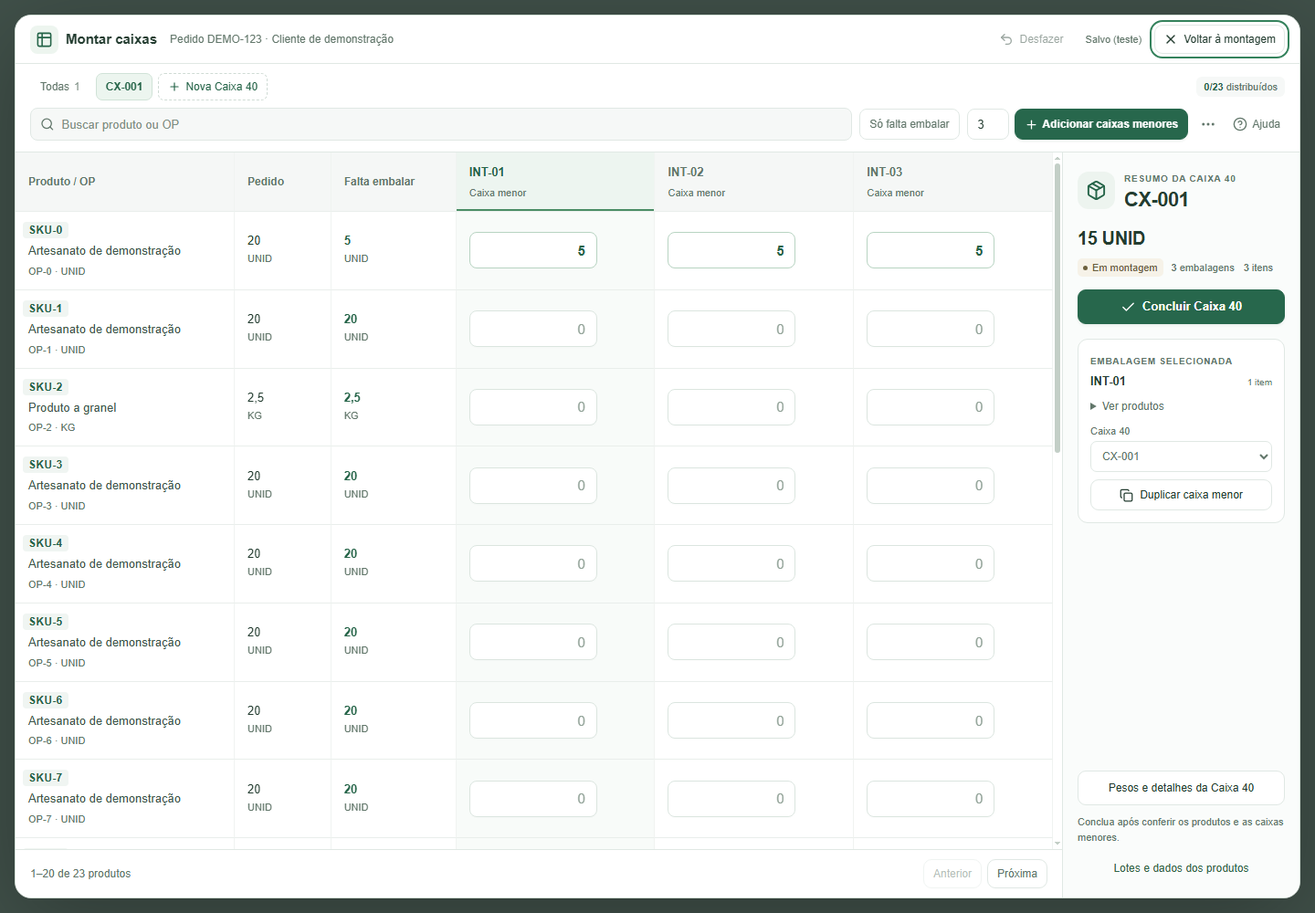
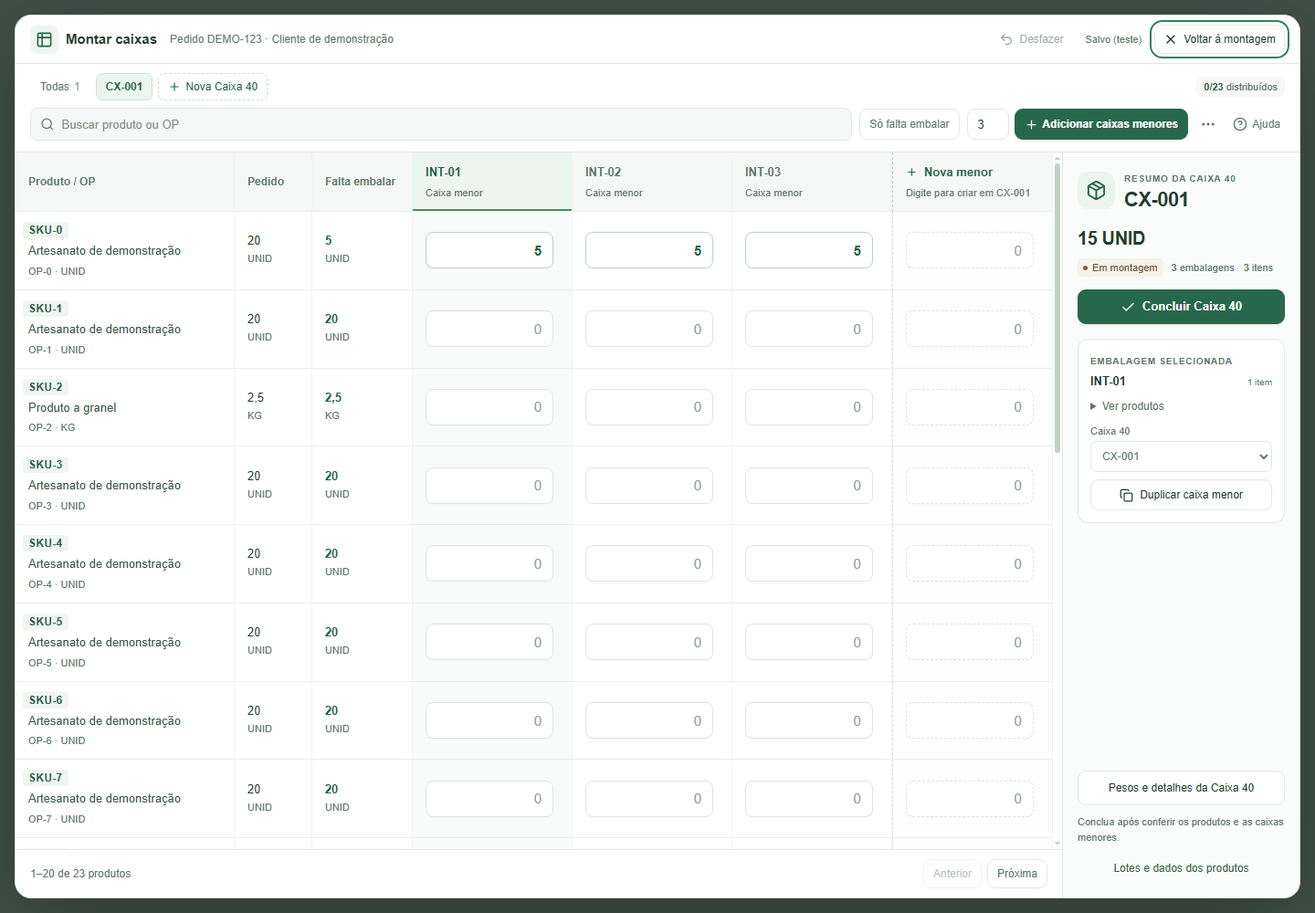
Create smaller boxes inside Caixa 40 directly from spreadsheet input

diff --git a/app/packing-sheet.tsx b/app/packing-sheet.tsx
@@ -2,11 +2,11 @@
 import {useEffect,useId,useRef,useState,type ClipboardEvent,type KeyboardEvent,type ReactNode} from "react";
 import {Plus,Search,Table2,Maximize2,X,Package,Check,Copy,CircleHelp,Undo2,MoreHorizontal} from "lucide-react";
 import {packingBalance} from "../lib/packing-assistant.mjs";
-import {applySheetQuantities,type SheetChange} from "../lib/packing-sheet.mjs";
+import {type SheetChange} from "../lib/packing-sheet.mjs";
 import {isDecimalDraft,decimal,type Shipment,type ShippingOP} from "../lib/shipping.mjs";
 import {isMounted,finishOuterBox,reopenOuterBox} from "../lib/ready-boxes.mjs";
 import {assemblySheetColumns,createSheetOuter,addSheetSmallBoxes,moveSheetSmallBox,duplicateSheetSmallBox,removeEmptySheetSmallBox,type AssemblyColumn} from "../lib/assembly-sheet.mjs";
-import {fillSheetSmallBoxes,moveSheetSmallBoxes,sheetUndoEntry,canUndoSheet,undoSheet,type SheetUndo} from "../lib/assembly-sheet-actions.mjs";
+import {applySheetWithNewSmallBox,type NewSheetSmallBox,fillSheetSmallBoxes,moveSheetSmallBoxes,sheetUndoEntry,canUndoSheet,undoSheet,type SheetUndo} from "../lib/assembly-sheet-actions.mjs";
 import {assemblyMode} from "../lib/assembly-mode.mjs";
 import {smallBoxQuantity} from "../lib/small-box-search.mjs";
 import type {BoxModel} from "../lib/box-models.mjs";
@@ -36,14 +36,19 @@ export default function PackingSheet({value,ops,disabled,onChange,onOpen,onForm,
  const [expanded,setExpanded]=useState(false),[activeBox,setActiveBox]=useState(""),[pendingOnly,setPendingOnly]=useState(false);
  const [scope,setScope]=useState("auto"),[count,setCount]=useState("1"),[kind,setKind]=useState("inner");
  const [actionPanel,setActionPanel]=useState(""),[marked,setMarked]=useState<string[]>([]),[moveTarget,setMoveTarget]=useState("new"),[patternOp,setPatternOp]=useState(""),[patternQuantity,setPatternQuantity]=useState("");
+ const [draftSlot,setDraftSlot]=useState(()=>({outerId:crypto.randomUUID(),innerId:crypto.randomUUID()}));
  const [undo,setUndo]=useState<SheetUndo|null>(null),editSession=useRef<{before:Shipment;key:string}|null>(null);
  useEffect(()=>{setUndo(null);editSession.current=null;setMarked([]);setScope("auto");setActionPanel("")},[orderLabel]);
  const helpId=useId(),titleId=useId(),mode=assemblyMode(value),hasSmall=mode!=="direct"&&allowInner;
  const allColumns=assemblySheetColumns(value),currentScope=scope==="all"||scope==="loose"||value.caixas.some(b=>b.id===scope)?scope:(value.caixas.find(b=>!isMounted(b))??value.caixas[0])?.id??"loose";
- const boxes=allColumns.filter(b=>currentScope==="all"||currentScope==="loose"?currentScope==="all"||b.inner&&!b.parentId:(b.parentId||(!b.inner?b.id:""))===currentScope);
- const selected=boxes.find(b=>b.key===activeBox)??boxes[0];
+ const storedColumns=allColumns.filter(b=>currentScope==="all"||currentScope==="loose"?currentScope==="all"||b.inner&&!b.parentId:(b.parentId||(!b.inner?b.id:""))===currentScope);
+ const selected=storedColumns.find(b=>b.key===activeBox)??storedColumns[0];
  const outer=value.caixas.find(b=>b.id===(selected?.parentId||(!selected?.inner?selected?.id:undefined)||currentScope));
  const destination=outer??value.caixas.find(b=>!isMounted(b));
+ const canCreate=hasSmall&&ops.length>0&&(destination?!isMounted(destination)&&(destination.caixasInternas?.length??0)<100&&destination.itens.length<100:value.caixas.length<100);
+ const creation:NewSheetSmallBox|undefined=canCreate?{outerId:destination?.id??draftSlot.outerId,innerId:draftSlot.innerId,newOuter:!destination,tipo:mode==="bags"||mode==="mixed"&&kind==="bag"?"bag":undefined}:undefined;
+ const draftColumn: (AssemblyColumn&{draft?:boolean})|undefined=creation?{id:creation.innerId,key:creation.outerId+"/"+creation.innerId,parentId:creation.outerId,codigo:creation.tipo==="bag"?"Nova bag":"Nova menor",tipo:creation.tipo,itens:[],inner:true,locked:false,draft:true}:undefined;
+ const boxes:(AssemblyColumn&{draft?:boolean})[]=[...storedColumns,...(draftColumn?[draftColumn]:[])];
  const balances=new Map(packingBalance(value,ops).map(b=>[b.opId,b]));
  const unique=[...new Map(ops.map(op=>[op.id,op])).values()];
  const pending=unique.filter(op=>{const b=balances.get(op.id);return !b||b.invalid||b.excess||b.remainingScaled===null||b.remainingScaled>BigInt(0)});
@@ -63,13 +68,13 @@ export default function PackingSheet({value,ops,disabled,onChange,onOpen,onForm,
 
  function run(action:(s:Shipment)=>Shipment){
   if(disabled)return;
-  try{const previous=assemblySheetColumns(latest.current),next=action(latest.current);save(next);const added=assemblySheetColumns(next).filter(b=>!previous.some(p=>p.key===b.key)).at(-1);if(added){setActiveBox(added.key);setScope(added.parentId||(!added.inner?added.id:"loose"));requestAnimationFrame(()=>table.current?.querySelector("thead th:last-child")?.scrollIntoView({block:"nearest",inline:"nearest"}))}return next}
+  try{const previous=assemblySheetColumns(latest.current),next=action(latest.current);save(next);const added=assemblySheetColumns(next).filter(b=>!previous.some(p=>p.key===b.key)).at(-1);if(added){setActiveBox(added.key);setScope(added.parentId||(!added.inner?added.id:"loose"));requestAnimationFrame(()=>{const input=table.current?.querySelector<HTMLInputElement>('td[data-box-key="'+CSS.escape(added.key)+'"] input');input?.focus();input?.scrollIntoView({block:"nearest",inline:"nearest"})})}return next}
   catch(error){setNotice("Não aplicado: "+(error instanceof Error?error.message:"Revise a montagem."))}
  }
- function createOuter(){const next=run(s=>{let n=createSheetOuter(s,model);if(hasSmall&&mode!=="mixed")n=addSheetSmallBoxes(n,n.caixas.at(-1)!.id,1,mode==="bags"?"bag":undefined);return n});if(next)setScope(next.caixas.at(-1)!.id)}
+ function createOuter(){const next=run(s=>createSheetOuter(s,model));if(next){setScope(next.caixas.at(-1)!.id);requestAnimationFrame(()=>table.current?.querySelector<HTMLInputElement>("input[data-sheet-row=\"0\"]")?.focus())}}
  function addSmall(){run(s=>{let n=s;let id=destination?.id;if(!id){n=createSheetOuter(n,model);id=n.caixas.at(-1)!.id}return addSheetSmallBoxes(n,id,Number(count),mode==="bags"||mode==="mixed"&&kind==="bag"?"bag":undefined)})}
  function moveBox(box:AssemblyColumn,target:string){run(s=>{let n=s;if(target==="new"){n=createSheetOuter(n,model);target=n.caixas.at(-1)!.id}return moveSheetSmallBox(n,box.id,box.parentId,target)})}
- function apply(changes:SheetChange[],groupKey=""){if(disabled)return "Aguarde para editar.";try{save(applySheetQuantities(latest.current,ops,changes),groupKey);return ""}catch(error){const message=error instanceof Error?error.message:"Revise as quantidades.";setNotice("Não aplicado: "+message);return message}}
+ function apply(changes:SheetChange[],groupKey=""){if(disabled)return "Aguarde para editar.";try{const next=applySheetWithNewSmallBox(latest.current,ops,changes,creation,model);save(next,groupKey);if(creation&&next.caixas.some(b=>b.id===creation.outerId&&b.caixasInternas?.some(i=>i.id===creation.innerId))){setActiveBox(creation.outerId+"/"+creation.innerId);if(currentScope!=="all")setScope(creation.outerId);setDraftSlot({outerId:crypto.randomUUID(),innerId:crypto.randomUUID()})}return ""}catch(error){const message=error instanceof Error?error.message:"Revise as quantidades.";setNotice("Não aplicado: "+message);return message}}
  function paste(event:ClipboardEvent<HTMLInputElement>,row:number,col:number){
   const raw=event.clipboardData.getData("text/plain");if(!/[\t\r\n]/.test(raw))return;event.preventDefault();
   const matrix=raw.replace(/\r\n?/g,"\n").replace(/\n$/,"").split("\n").map(line=>line.split("\t"));
@@ -87,22 +92,22 @@ export default function PackingSheet({value,ops,disabled,onChange,onOpen,onForm,
   <div className={styles.boxRow}><nav className={styles.boxTabs} aria-label="Caixas 40 da planilha"><button type="button" aria-pressed={currentScope==="all"} onClick={()=>selectOuter("all")}>Todas <small>{value.caixas.length}</small></button>{value.caixas.map(b=><button type="button" key={b.id} aria-pressed={currentScope===b.id} title={(isMounted(b)?"Montada · ":"")+smallBoxQuantity(b.itens)} onClick={()=>selectOuter(b.id)}>{b.codigo}{isMounted(b)&&<Check size={13}/>}</button>)}{!!value.caixasEmMontagem?.length&&<button type="button" aria-pressed={currentScope==="loose"} onClick={()=>selectOuter("loose")}>Sem Caixa 40 <small>{value.caixasEmMontagem.length}</small></button>}<button type="button" className={styles.newOuter} disabled={disabled||value.caixas.length>=100||!ops.length} onClick={createOuter}><Plus size={14}/>Nova Caixa 40</button></nav><span className={styles.progress} aria-label="Resumo da distribuição" title={pending.length?pending.length+" produtos a distribuir ou revisar":"Todos os produtos distribuídos"}><strong>{unique.length-pending.length}/{unique.length}</strong> distribuídos</span></div>
   <div className={styles.toolbar}><label className={styles.search}><Search size={16}/><input type="search" aria-label="Buscar produto na planilha" placeholder="Buscar produto ou OP" value={query} onChange={e=>{setQuery(e.target.value);setPage(0)}}/></label><button type="button" className={styles.filter} aria-pressed={pendingOnly} onClick={()=>{setPendingOnly(!pendingOnly);setPage(0)}}>{pendingOnly&&<Check size={14}/>}Só falta embalar</button>
   {hasSmall&&actionPanel!=="fill"&&<div className={styles.addRow}>{(currentScope==="all"||currentScope==="loose")&&<span className={styles.addDestination} title={destination?"As novas embalagens serão criadas em "+destination.codigo:"A primeira Caixa 40 será criada junto."}>{destination?<>Em <strong>{destination.codigo}</strong></>:"Nova Caixa 40"}</span>}<input aria-label="Quantidade de novas embalagens" title="Quantidade de novas embalagens" type="number" min="1" max="100" step="1" value={count} disabled={disabled} onChange={e=>setCount(e.target.value)}/>{mode==="mixed"&&<select aria-label="Tipo das novas embalagens" value={kind} onChange={e=>setKind(e.target.value)} disabled={disabled}><option value="inner">Caixa menor</option><option value="bag">Bag</option></select>}<button type="button" className="button primary" disabled={disabled||!ops.length||!!destination&&isMounted(destination)} onClick={addSmall}><Plus size={15}/>{mode==="bags"||mode==="mixed"&&kind==="bag"?"Adicionar bags":"Adicionar caixas menores"}</button></div>}
-  {hasSmall&&<details className={styles.help}><summary aria-label="Mais ações"><MoreHorizontal size={18}/></summary><div className={styles.actionMenu}><button type="button" disabled={disabled||!!destination&&isMounted(destination)} onClick={e=>{e.currentTarget.closest("details")!.open=false;openActions("fill")}}>Criar menores preenchidas</button><button type="button" disabled={disabled||!boxes.some(b=>b.inner&&(!b.parentId||!b.locked))} onClick={e=>{e.currentTarget.closest("details")!.open=false;openActions("move")}}>Mover menores em lote</button></div></details>}
-  <details className={styles.help}><summary><CircleHelp size={16}/>Ajuda</summary><div id={helpId}><p>Produtos nas linhas, caixas nas colunas. Digite as quantidades na unidade da OP.</p><p><kbd>Tab</kbd> próxima caixa · <kbd>Enter</kbd> próximo produto. Você também pode colar células do Excel.</p><p>0 ou apagar retira o item. Selecione a menor e escolha seu destino no painel lateral. Em Todas, o destino também aparece na coluna.</p><p>Para criar vazias, use o botão de adicionar. Em Mais ações (…), crie menores preenchidas ou mova várias juntas. Desfazer reverte a última ação enquanto a montagem não tiver outras alterações.</p></div></details></div>
+  {hasSmall&&<details className={styles.help}><summary aria-label="Mais ações"><MoreHorizontal size={18}/></summary><div className={styles.actionMenu}><button type="button" disabled={disabled||!!destination&&isMounted(destination)} onClick={e=>{e.currentTarget.closest("details")!.open=false;openActions("fill")}}>Criar menores preenchidas</button><button type="button" disabled={disabled||!storedColumns.some(b=>b.inner&&(!b.parentId||!b.locked))} onClick={e=>{e.currentTarget.closest("details")!.open=false;openActions("move")}}>Mover menores em lote</button></div></details>}
+  <details className={styles.help}><summary><CircleHelp size={16}/>Ajuda</summary><div id={helpId}><p>Digite em Nova menor para criar a embalagem dentro da Caixa 40 selecionada. Sem uma maior, as duas são criadas juntas. Continue na mesma coluna para acrescentar outros produtos.</p><p><kbd>Tab</kbd> próxima caixa · <kbd>Enter</kbd> próximo produto. Você também pode colar células do Excel.</p><p>0 ou apagar retira o item. Selecione a menor e escolha seu destino no painel lateral. Em Todas, o destino também aparece na coluna.</p><p>A coluna Nova menor só é salva ao receber uma quantidade positiva. Para criar várias vazias, use o botão de adicionar. Em Mais ações (…), crie menores preenchidas ou mova várias juntas. Desfazer reverte a última ação enquanto a montagem não tiver outras alterações.</p></div></details></div>
   {actionPanel&&<div className={styles.batchPanel} role="region" aria-label={actionPanel==="fill"?"Criar menores preenchidas":"Mover menores em lote"}>
-   {actionPanel==="fill"?<><strong>Criar em {destination?.codigo??"nova Caixa 40"}</strong><label>Embalagens<input aria-label="Número de menores preenchidas" type="number" min="1" max="100" value={count} onChange={e=>setCount(e.target.value)}/></label>{mode==="mixed"&&<label>Tipo<select aria-label="Tipo das novas embalagens" value={kind} onChange={e=>setKind(e.target.value)}><option value="inner">Caixa menor</option><option value="bag">Bag</option></select></label>}<label>Produto<select aria-label="Produto das menores" value={patternOp} onChange={e=>setPatternOp(e.target.value)}><option value="">Selecione o produto</option>{unique.map(op=><option key={op.id} value={op.id}>{op.sku||op.nome} · {op.produto}</option>)}</select></label><label>Por embalagem{patternOp?" ("+unique.find(op=>op.id===patternOp)?.unidade+")":""}<input aria-label="Quantidade por embalagem" inputMode="decimal" value={patternQuantity} onChange={e=>{if(isDecimalDraft(e.target.value))setPatternQuantity(e.target.value)}}/></label><button type="button" className="button primary" disabled={disabled||!patternOp||!patternQuantity} onClick={fillBatch}>Criar preenchidas</button>{patternOp&&<small className={styles.batchSummary}>{Number.isInteger(Number(count))&&Number(count)>0&&decimal(patternQuantity)!==null?Number(count)+" × "+patternQuantity+" = "+(Number(count)*decimal(patternQuantity)!).toLocaleString("pt-BR",{maximumFractionDigits:3})+" "+unique.find(op=>op.id===patternOp)?.unidade+" · ":""}Saldo: {balances.get(patternOp)?.remaining??"A confirmar"} {unique.find(op=>op.id===patternOp)?.unidade}</small>}</>:<><strong>{marked.length} selecionadas</strong><button type="button" className="text-action" onClick={()=>setMarked(boxes.filter(b=>b.inner&&(!b.parentId||!b.locked)).map(b=>b.key))}>Selecionar visíveis</button><label>Destino<select aria-label="Destino das menores selecionadas" value={moveTarget} onChange={e=>setMoveTarget(e.target.value)}><option value="new" disabled={value.caixas.length>=100}>Nova Caixa 40</option>{value.caixas.filter(b=>!isMounted(b)).map(b=><option key={b.id} value={b.id}>{b.codigo}</option>)}<option value="">Sem Caixa 40</option></select></label><button type="button" className="button primary" disabled={disabled||!marked.length} onClick={moveBatch}>Mover selecionadas</button></>}
+   {actionPanel==="fill"?<><strong>Criar em {destination?.codigo??"nova Caixa 40"}</strong><label>Embalagens<input aria-label="Número de menores preenchidas" type="number" min="1" max="100" value={count} onChange={e=>setCount(e.target.value)}/></label>{mode==="mixed"&&<label>Tipo<select aria-label="Tipo das novas embalagens" value={kind} onChange={e=>setKind(e.target.value)}><option value="inner">Caixa menor</option><option value="bag">Bag</option></select></label>}<label>Produto<select aria-label="Produto das menores" value={patternOp} onChange={e=>setPatternOp(e.target.value)}><option value="">Selecione o produto</option>{unique.map(op=><option key={op.id} value={op.id}>{op.sku||op.nome} · {op.produto}</option>)}</select></label><label>Por embalagem{patternOp?" ("+unique.find(op=>op.id===patternOp)?.unidade+")":""}<input aria-label="Quantidade por embalagem" inputMode="decimal" value={patternQuantity} onChange={e=>{if(isDecimalDraft(e.target.value))setPatternQuantity(e.target.value)}}/></label><button type="button" className="button primary" disabled={disabled||!patternOp||!patternQuantity} onClick={fillBatch}>Criar preenchidas</button>{patternOp&&<small className={styles.batchSummary}>{Number.isInteger(Number(count))&&Number(count)>0&&decimal(patternQuantity)!==null?Number(count)+" × "+patternQuantity+" = "+(Number(count)*decimal(patternQuantity)!).toLocaleString("pt-BR",{maximumFractionDigits:3})+" "+unique.find(op=>op.id===patternOp)?.unidade+" · ":""}Saldo: {balances.get(patternOp)?.remaining??"A confirmar"} {unique.find(op=>op.id===patternOp)?.unidade}</small>}</>:<><strong>{marked.length} selecionadas</strong><button type="button" className="text-action" onClick={()=>setMarked(storedColumns.filter(b=>b.inner&&(!b.parentId||!b.locked)).map(b=>b.key))}>Selecionar visíveis</button><label>Destino<select aria-label="Destino das menores selecionadas" value={moveTarget} onChange={e=>setMoveTarget(e.target.value)}><option value="new" disabled={value.caixas.length>=100}>Nova Caixa 40</option>{value.caixas.filter(b=>!isMounted(b)).map(b=><option key={b.id} value={b.id}>{b.codigo}</option>)}<option value="">Sem Caixa 40</option></select></label><button type="button" className="button primary" disabled={disabled||!marked.length} onClick={moveBatch}>Mover selecionadas</button></>}
    <button type="button" className="text-action" onClick={()=>openActions("")}>Cancelar</button>
   </div>}
   {notice&&<p className={notice.startsWith("Não aplicado")?styles.error:styles.hint} role="status">{notice}</p>}
   <div className={styles.workspace}><div className={styles.gridPane}><p className={styles.mobileHint}>Deslize para os lados para ver as caixas.</p>
-  {!boxes.length?<div className={styles.empty}><Package size={32}/><p>{outer?"Adicione as caixas menores para preencher esta Caixa 40.":"Crie sua primeira caixa para começar."}</p><small>Os produtos do pedido já estão prontos para preencher.</small></div>:<div className={styles.scroll} ref={table} tabIndex={0} role="region" aria-label="Quantidades por produto e caixa" aria-describedby={helpId}><table className={styles.table}><thead><tr><th scope="col">Produto / OP</th><th scope="col">Pedido</th><th scope="col">Falta embalar</th>{boxes.map(box=><th scope="col" key={box.key} data-selected={selected?.key===box.key}><>{actionPanel==="move"&&box.inner&&<input className={styles.markBox} type="checkbox" aria-label={"Selecionar "+box.codigo} checked={marked.includes(box.key)} disabled={disabled||!!box.parentId&&box.locked} onChange={e=>setMarked(e.target.checked?[...marked,box.key]:marked.filter(key=>key!==box.key))}/>}</><button type="button" aria-pressed={selected?.key===box.key} title={box.codigo} onClick={()=>setActiveBox(box.key)}>{box.codigo}</button><small>{box.inner?box.tipo==="bag"?"Bag":"Caixa menor":"Produtos diretos"}{box.locked?" · Concluída":!box.itens.length?" · Vazia":""}</small>{box.inner&&(currentScope==="all"||currentScope==="loose")&&<select className={styles.destination} aria-label={"Caixa 40 de "+box.codigo} value={box.parentId??""} disabled={disabled||!!box.parentId&&box.locked} onChange={e=>moveBox(box,e.target.value)}><option value="">Sem Caixa 40</option>{value.caixas.map(b=><option key={b.id} value={b.id} disabled={isMounted(b)}>{b.codigo}{isMounted(b)?" · Montada":""}</option>)}<option value="new" disabled={value.caixas.length>=100}>+ Nova Caixa 40</option></select>}</th>)}</tr></thead><tbody>
+  {!boxes.length?<div className={styles.empty}><Package size={32}/><p>{outer?"Adicione as caixas menores para preencher esta Caixa 40.":"Crie sua primeira caixa para começar."}</p><small>Os produtos do pedido já estão prontos para preencher.</small></div>:<div className={styles.scroll} ref={table} tabIndex={0} role="region" aria-label="Quantidades por produto e caixa" aria-describedby={helpId}><table className={styles.table}><thead><tr><th scope="col">Produto / OP</th><th scope="col">Pedido</th><th scope="col">Falta embalar</th>{boxes.map(box=><th scope="col" key={box.key} data-new={box.draft||undefined} data-selected={selected?.key===box.key}><>{actionPanel==="move"&&box.inner&&!box.draft&&<input className={styles.markBox} type="checkbox" aria-label={"Selecionar "+box.codigo} checked={marked.includes(box.key)} disabled={disabled||!!box.parentId&&box.locked} onChange={e=>setMarked(e.target.checked?[...marked,box.key]:marked.filter(key=>key!==box.key))}/>}</><button type="button" aria-pressed={selected?.key===box.key} title={box.codigo} onClick={()=>{if(!box.draft)setActiveBox(box.key);if(box.draft)table.current?.querySelector<HTMLInputElement>('td[data-box-key="'+CSS.escape(box.key)+'"] input')?.focus()}}>{box.draft&&<Plus size={13}/>} {box.codigo}</button><small>{box.draft?"Digite para criar em "+(destination?.codigo??"nova Caixa 40"):box.inner?box.tipo==="bag"?"Bag":"Caixa menor":"Produtos diretos"}{box.draft?"":box.locked?" · Concluída":!box.itens.length?" · Vazia":""}</small>{box.inner&&!box.draft&&(currentScope==="all"||currentScope==="loose")&&<select className={styles.destination} aria-label={"Caixa 40 de "+box.codigo} value={box.parentId??""} disabled={disabled||!!box.parentId&&box.locked} onChange={e=>moveBox(box,e.target.value)}><option value="">Sem Caixa 40</option>{value.caixas.map(b=><option key={b.id} value={b.id} disabled={isMounted(b)}>{b.codigo}{isMounted(b)?" · Montada":""}</option>)}<option value="new" disabled={value.caixas.length>=100}>+ Nova Caixa 40</option></select>}</th>)}</tr></thead><tbody>
    {visible.map((op,row)=>{const balance=balances.get(op.id);return <tr key={op.id} data-complete={!!balance&&!balance.invalid&&!balance.excess&&balance.remainingScaled===BigInt(0)}><th scope="row"><strong>{op.sku||op.nome}</strong><span>{op.produto}</span><small>{op.nome} · {op.unidade}</small><small className={styles.mobileOrder}>Pedido: {balance?.target??"A confirmar"} {op.unidade}</small></th><td>{balance?.target??"A confirmar"}<small>{op.unidade}</small></td><td className={balance?.excess?styles.error:styles.balance}>{balance?.invalid?"Revisar":balance?.excess?"Excesso: "+balance.remaining:balance?.remaining??"A confirmar"}<small>{op.unidade}</small></td>{boxes.map((box,col)=>{
     const items=box.itens.filter(i=>i.opId===op.id),conflict=items.length>1||items.some(item=>item.produto!==op.produto||item.unidade!==op.unidade);
-    return <td key={box.key} data-selected={selected?.key===box.key}>{conflict?<button type="button" className="text-action" onClick={()=>showBox(box.id,box.parentId,true)}>Revisar itens</button>:<QuantityCell value={items[0]?.quantidade??""} label={(op.sku||op.produto)+" · "+op.nome+" · "+box.codigo+" ("+op.unidade+")"} disabled={disabled||box.locked} onFocus={()=>{setActiveBox(box.key);editSession.current=null}} row={row} col={col} onApply={quantity=>{setActiveBox(box.key);return apply([{boxId:box.id,parentId:box.parentId,opId:op.id,quantity}],box.key+"/"+op.id)}} onPaste={event=>paste(event,row,col)} onKeyDown={event=>move(event,row,col)}/>}</td>;
+    return <td key={box.key} data-box-key={box.key} data-new={box.draft||undefined} data-selected={selected?.key===box.key}>{conflict?<button type="button" className="text-action" onClick={()=>showBox(box.id,box.parentId,true)}>Revisar itens</button>:<QuantityCell value={items[0]?.quantidade??""} label={(op.sku||op.produto)+" · "+op.nome+" · "+box.codigo+" ("+op.unidade+")"} disabled={disabled||box.locked} onFocus={()=>{if(!box.draft)setActiveBox(box.key);editSession.current=null}} row={row} col={col} onApply={quantity=>{if(!box.draft)setActiveBox(box.key);return apply([{boxId:box.id,parentId:box.parentId,opId:op.id,quantity}],box.key+"/"+op.id)}} onPaste={event=>paste(event,row,col)} onKeyDown={event=>move(event,row,col)}/>}</td>;
    })}</tr>})}{!visible.length&&<tr><td colSpan={3+boxes.length}>Nenhum produto encontrado neste pedido.</td></tr>}
   </tbody></table></div>}
   <footer className={styles.footer}><span>{rows.length?currentPage*20+1:0}–{Math.min((currentPage+1)*20,rows.length)} de {rows.length} produtos</span>{lastPage>0&&<div><button type="button" className="button" disabled={currentPage===0} onClick={()=>setPage(currentPage-1)}>Anterior</button><button type="button" className="button" disabled={currentPage===lastPage} onClick={()=>setPage(currentPage+1)}>Próxima</button></div>}</footer></div>
-  <aside className={styles.preview} aria-label="Conteúdo da caixa selecionada"><div className={styles.previewHeading}><Package size={23}/><div><span>{outer?"RESUMO DA CAIXA 40":"EMBALAGEM SELECIONADA"}</span><h3>{outer?.codigo??selected?.codigo??"Tudo começa aqui"}</h3></div></div>{outer?<><div className={styles.boxSummary}><strong className={styles.summaryTotal}>{smallBoxQuantity(outer.itens)}</strong><span className={styles.boxState} data-ready={isMounted(outer)}>{isMounted(outer)?"Montada":"Em montagem"}</span><div className={styles.summaryCounts}><span><b>{outer.caixasInternas?.length??0}</b> {(outer.caixasInternas?.length??0)===1?"embalagem":"embalagens"}</span><span><b>{outer.itens.length}</b> {outer.itens.length===1?"item":"itens"}</span></div></div><div className={styles.conclude}>{isMounted(outer)?<button type="button" className="button primary" disabled={disabled} onClick={()=>run(s=>reopenOuterBox(s,outer.id))}>Reabrir Caixa 40</button>:<button type="button" className="button primary" disabled={disabled||!outer.itens.length} onClick={()=>run(s=>finishOuterBox(s,outer.id,ops))}><Check size={17}/>Concluir Caixa 40</button>}</div></>:selected?<p>Escolha a Caixa 40 no topo da coluna para colocar esta embalagem dentro dela.</p>:<p>Crie uma Caixa 40 e acompanhe o conteúdo aqui.</p>}
+  <aside className={styles.preview} aria-label="Conteúdo da caixa selecionada"><div className={styles.previewHeading}><Package size={23}/><div><span>{outer?"RESUMO DA CAIXA 40":"EMBALAGEM SELECIONADA"}</span><h3>{outer?.codigo??selected?.codigo??"Tudo começa aqui"}</h3></div></div>{outer?<><div className={styles.boxSummary}><strong className={styles.summaryTotal}>{smallBoxQuantity(outer.itens)}</strong><span className={styles.boxState} data-ready={isMounted(outer)}>{isMounted(outer)?"Montada":"Em montagem"}</span><div className={styles.summaryCounts}><span><b>{outer.caixasInternas?.length??0}</b> {(outer.caixasInternas?.length??0)===1?"embalagem":"embalagens"}</span><span><b>{outer.itens.length}</b> {outer.itens.length===1?"item":"itens"}</span></div></div><div className={styles.conclude}>{isMounted(outer)?<button type="button" className="button primary" disabled={disabled} onClick={()=>run(s=>reopenOuterBox(s,outer.id))}>Reabrir Caixa 40</button>:<button type="button" className="button primary" disabled={disabled||!outer.itens.length} onClick={()=>run(s=>finishOuterBox(s,outer.id,ops))}><Check size={17}/>Concluir Caixa 40</button>}</div></>:selected?<p>Escolha a Caixa 40 no topo da coluna para colocar esta embalagem dentro dela.</p>:<p>Digite na coluna Nova menor. A menor e a Caixa 40 aparecem aqui, já vinculadas.</p>}
   {selected&&<div className={styles.selectedContent}><span className={styles.selectionLabel}>{selected.inner?"Embalagem selecionada":"Conteúdo selecionado"}</span><h4>{selected.inner?selected.codigo:"Produtos na caixa"}<small>{selected.itens.length} {selected.itens.length===1?"item":"itens"}</small></h4>{selected.itens.length?<details className={styles.productDetails}><summary>Ver produtos</summary><ul>{selected.itens.map(item=><li key={item.id}><span><b>{item.sku||item.opId}</b><span>{item.produto}</span></span><strong>{item.quantidade}<small>{item.unidade}</small></strong></li>)}</ul></details>:<p className={styles.hint}>Digite na coluna {selected.codigo}. Os produtos aparecem aqui na hora.</p>}{selected.inner&&<div className={styles.smallActions}>{currentScope!=="all"&&currentScope!=="loose"&&<label className={styles.moveLabel}>Caixa 40<select aria-label={"Caixa 40 de "+selected.codigo} value={selected.parentId??""} disabled={disabled||!!selected.parentId&&selected.locked} onChange={e=>moveBox(selected,e.target.value)}><option value="">Sem Caixa 40</option>{value.caixas.map(b=><option key={b.id} value={b.id} disabled={isMounted(b)}>{b.codigo}</option>)}<option value="new" disabled={value.caixas.length>=100}>+ Nova Caixa 40</option></select></label>}{selected.itens.length>0?<button type="button" className="button" disabled={disabled||selected.locked||!allowInner} onClick={()=>run(s=>duplicateSheetSmallBox(s,selected,ops))}><Copy size={15}/>Duplicar {selected.tipo==="bag"?"bag":"caixa menor"}</button>:<button type="button" className="text-action" disabled={disabled||selected.locked} onClick={()=>run(s=>removeEmptySheetSmallBox(s,selected))}>Remover embalagem vazia</button>}{selected.locked&&!selected.parentId&&<button type="button" className="button" disabled={disabled} onClick={()=>run(s=>({...s,caixasEmMontagem:s.caixasEmMontagem?.map(b=>b.id===selected.id?{...b,pronta:false}:b)}))}>Editar conteúdo</button>}</div>}</div>}
   <div className={styles.previewActions}>{outer&&<><button type="button" className="button" onClick={()=>showBox(outer.id)}>Pesos e detalhes da Caixa 40</button><small>{isMounted(outer)?"Conteúdo concluído. Confira os pesos e medidas antes do embarque.":"Conclua após conferir os produtos e as caixas menores."}</small></>}{selected&&<button type="button" className="text-action" onClick={()=>showBox(selected.id,selected.parentId,true)}>Lotes e dados dos produtos</button>}</div>
   </aside></div>

diff --git a/app/packing-sheet.module.css b/app/packing-sheet.module.css
@@ -28,3 +28,5 @@
 .screen{position:fixed;inset:0;width:calc(100vw - 32px);height:calc(100dvh - 32px);max-width:none;max-height:none;margin:auto;padding:0;border:1px solid light-dark(#d5e0d8,var(--night-border));border-radius:18px;background:light-dark(#fff,var(--night-surface));color:inherit;box-shadow:0 24px 100px #0004}.screen::backdrop{background:#10251dc9}.expanded{margin:0;border:0;border-radius:0;height:100%;display:flex;flex-direction:column;box-shadow:none}.expanded>.error,.expanded>.hint{flex-shrink:0}.expanded .workspace{flex:1;grid-template-columns:minmax(0,1fr) 260px;overflow:hidden}.expanded .scroll{max-height:none;flex:1;min-height:0}
 @media(max-width:1100px){.workspace{grid-template-columns:minmax(0,1fr)}.sheet:not(.expanded) .preview{max-height:none;border-left:0}.sheet:not(.expanded) .previewActions{margin-top:0}.identity{flex-wrap:wrap;gap:2px 12px}.orderLabel{flex-basis:100%}.toolbar .search{flex-basis:200px}.heading button>span{display:none}}
 @media(max-width:700px){.viewSwitcher :global(.button){font-size:.75rem;padding:7px 9px}.heading{padding:8px 12px;gap:8px}.identity{display:block}.heading h2{font-size:.875rem}.heading h2 svg{padding:4px}.orderLabel{display:block;font-size:.6875rem;margin-top:3px}.headerActions{gap:4px}.heading :global(.button){min-height:36px;min-width:36px;padding:8px}.headerActions button>span{display:none}.saveStatus{max-width:80px;padding:2px}.boxRow{padding:6px 12px;gap:6px}.boxTabs button{min-height:34px;padding:6px 8px}.progress{font-size:.625rem;padding:4px}.toolbar{padding:0 12px 8px;gap:6px}.toolbar .search{order:0;flex-basis:calc(100% - 150px);min-width:140px}.filter{order:1;font-size:.6875rem;min-height:36px;padding:7px 8px}.addRow{order:2;flex-wrap:wrap;flex:1;margin-left:0;gap:5px}.addDestination{margin:0;font-size:.6875rem}.addRow input{width:40px;padding:6px 4px;min-height:36px}.addRow select{max-width:110px;min-height:36px}.addRow :global(.button){font-size:.6875rem;min-height:36px;padding:6px 8px}.help{order:3}.help summary{min-height:36px;padding:6px;font-size:0;gap:0}.help summary svg{width:16px}.help>div{right:0;font-size:.8125rem}.sheet>.hint,.sheet>.error{margin:0 12px 8px}.mobileHint{display:block;margin:0;padding:5px 12px;font-size:.6875rem;color:var(--sheet-muted);background:var(--sheet-soft)}.table th:first-child{min-width:145px;max-width:165px;width:145px}.table th,.table td{padding:10px}.table thead th{min-width:100px}.table th:nth-child(3){min-width:92px}.table .mobileOrder{display:block}.table th:nth-child(2),.table td:nth-child(2){display:none}.table th .destination{min-width:120px}.scroll{max-height:60dvh}.footer{align-items:center;padding:10px 12px;font-size:.6875rem}.screen{width:100vw;height:100dvh;border:0;border-radius:0;overflow:auto}.expanded{height:auto;min-height:100%}.workspace,.expanded .workspace{display:flex;flex-direction:column;overflow:visible;flex:none}.expanded .scroll{flex:none;max-height:58dvh;min-height:220px}.preview{border-left:0;overflow:visible;padding:18px 16px;min-height:250px}.previewActions{margin-top:0}.batchPanel{gap:8px;padding:10px 12px}.batchPanel select{max-width:240px}.batchPanel strong{flex-basis:100%}}
+
+.table thead th[data-new=true]{background:var(--sheet-soft);border-left:1px dashed light-dark(#bdd2c5,var(--night-border));min-width:150px}.table th[data-new=true] button{color:var(--sheet-accent)}.table td[data-new=true]{background:light-dark(#fcfdfc,var(--night-surface));border-left:1px dashed light-dark(#d9e5de,var(--night-border))}.table td[data-new=true] input{border-style:dashed}.table th[data-new=true] small{max-width:180px}

diff --git a/lib/tutorials.ts b/lib/tutorials.ts
@@ -1,4 +1,4 @@
-export const manualEdition = {revision:"32",updatedAt:"24/11/2026"};
+export const manualEdition = {revision:"33",updatedAt:"24/11/2026"};
 export const manualCategories = [
   {
     "id": "start",
@@ -278,13 +278,13 @@ export const tutorials = [
       },
       {
         "title": "Crie a Caixa 40 junto com as menores",
-        "short": "Informe Quantidade e clique em Adicionar caixas menores ou Adicionar bags.",
-        "text": "Sem uma Caixa 40 em montagem, o painel cria a maior junto das menores. Para abrir outra, clique em Nova Caixa 40; nas modalidades somente menores ou bags, ela já começa com uma embalagem interna. A tela abre na primeira Caixa 40 em montagem. Selecione outra no alto quando necessário; Todas fica disponível para a visão geral. Quantidade é o número de novas embalagens, não a quantidade de produtos."
+        "short": "Digite a primeira quantidade em Nova menor ou Nova bag. A embalagem já nasce dentro da Caixa 40.",
+        "text": "A planilha já mostra os produtos do pedido. Na coluna Nova menor ou Nova bag, a primeira quantidade positiva cria a embalagem dentro da Caixa 40 selecionada. Se não existir uma maior, as duas são criadas juntas. Continue na mesma coluna para incluir outros produtos. A próxima coluna Nova menor permite começar outra embalagem. Nova Caixa 40 abre outro destino, sem criar menores vazias. A tela abre na primeira Caixa 40 em montagem. Selecione outra no alto quando necessário; Todas fica disponível para a visão geral. O botão Adicionar caixas menores ou Adicionar bags continua disponível para criar várias colunas vazias; nesse botão, Quantidade é o número de embalagens."
       },
       {
         "title": "Digite as quantidades do pedido",
         "short": "Cada linha é um produto/OP e cada coluna é uma caixa menor, bag ou Caixa 40 direta.",
-        "text": "Confira o SKU e digite a quantidade real na unidade da OP. A tabela é a referência do conteúdo; o total da Caixa 40 acompanha a digitação. Ver produtos, na lateral, abre o detalhamento somente quando necessário. No celular, a quantidade do pedido fica abaixo do produto para deixar a coluna editável visível. Pedido mostra a quantidade prevista; Falta embalar desconta tudo já distribuído, inclusive embalagens sem Caixa 40. Tab avança para a próxima caixa e Enter para o próximo produto. Apagar ou digitar 0 retira aquele item. A busca aceita SKU, produto e OP; Só falta embalar mostra o que ainda precisa distribuir ou revisar."
+        "text": "Confira o SKU e digite a quantidade real na unidade da OP. Nova menor é apenas um espaço de criação: 0, campo vazio ou valor rejeitado não criam caixas. Cada coluna criada corresponde a uma menor já vinculada à maior. A tabela é a referência do conteúdo; o total da Caixa 40 acompanha a digitação. Ver produtos, na lateral, abre o detalhamento somente quando necessário. No celular, a quantidade do pedido fica abaixo do produto para deixar a coluna editável visível. Pedido mostra a quantidade prevista; Falta embalar desconta tudo já distribuído, inclusive embalagens sem Caixa 40. Tab avança para a próxima caixa e Enter para o próximo produto. Apagar ou digitar 0 retira aquele item. A busca aceita SKU, produto e OP; Só falta embalar mostra o que ainda precisa distribuir ou revisar."
       },
       {
         "title": "Preencha em lote, cole ou duplique",

diff --git a/lib/manual.ts b/lib/manual.ts
@@ -2,12 +2,12 @@ export const manual = [
   {
     "category": "expedition",
     "title": "Onde fica a planilha de caixas menores e Caixa 40?",
-    "text": "Abra o pedido → Expedição → Montar caixas → Planilha do pedido. Use Abrir tela da planilha para ampliar. O cabeçalho compacto reúne busca e criação de embalagens. Ajuda mostra as instruções quando necessário. A tela abre em uma Caixa 40 e mostra suas menores em colunas. Todas abre a visão geral. A tabela mostra o conteúdo e a lateral reúne total e ações da embalagem selecionada, com Ver produtos recolhido. O formulário antigo continua em Formulário por produto."
+    "text": "Abra o pedido → Expedição → Montar caixas → Planilha do pedido. Use Abrir tela da planilha para ampliar. O cabeçalho compacto reúne busca e criação de embalagens. Ajuda mostra as instruções quando necessário. A tela abre em uma Caixa 40 e mostra suas menores em colunas. Digite em Nova menor para criar e colocar a embalagem diretamente nessa maior. Se ainda não existir uma Caixa 40, ela é criada junto. Continue na mesma coluna para acrescentar produtos; não há uma etapa separada de encaixar a menor. Todas abre a visão geral. A tabela mostra o conteúdo e a lateral reúne total e ações da embalagem selecionada, com Ver produtos recolhido. O formulário antigo continua em Formulário por produto."
   },
   {
     "category": "expedition",
     "title": "Criar várias caixas menores de uma vez",
-    "text": "Selecione a Caixa 40 no alto, informe Quantidade e clique em Adicionar caixas menores ou Adicionar bags. Sem uma maior disponível, ela é criada junto. Quantidade indica o número de novas embalagens. Cada uma recebe uma coluna para preencher. Para criar já com produto, abra Mais ações (…) → Criar menores preenchidas, informe produto e quantidade por embalagem e confira total e saldo. O lote inteiro é rejeitado se ultrapassar o pedido. Para repetir uma já preenchida, selecione sua coluna e use Duplicar caixa menor / Duplicar bag; a cópia respeita o saldo do pedido."
+    "text": "Selecione a Caixa 40 no alto, informe Quantidade e clique em Adicionar caixas menores ou Adicionar bags. Sem uma maior disponível, ela é criada junto. Quantidade indica o número de novas embalagens. Cada uma recebe uma coluna para preencher. Para criar uma por vez, basta digitar em Nova menor, sem usar antes o botão de adicionar. Para criar já com produto, abra Mais ações (…) → Criar menores preenchidas, informe produto e quantidade por embalagem e confira total e saldo. O lote inteiro é rejeitado se ultrapassar o pedido. Para repetir uma já preenchida, selecione sua coluna e use Duplicar caixa menor / Duplicar bag; a cópia respeita o saldo do pedido."
   },
   {
     "category": "expedition",

diff --git a/lib/manual-visuals.ts b/lib/manual-visuals.ts
@@ -222,7 +222,7 @@ const scenes:Record<string,Array<[string,string,string,[number,number,number,num
     [
       "planilha-caixas",
       "Crie ou selecione a Caixa 40",
-      "As caixas maiores ficam no alto. Nova Caixa 40 cria outra; Todas mostra as colunas de todo o envio.",
+      "As maiores ficam no alto. Nova Caixa 40 abre outro destino. Ao digitar na coluna Nova menor, a embalagem é criada dentro da maior selecionada.",
       [
         33,
         79,
@@ -244,12 +244,12 @@ const scenes:Record<string,Array<[string,string,string,[number,number,number,num
     [
       "planilha-caixas",
       "Preencha como uma planilha",
-      "Digite a quantidade na linha do SKU e na coluna da menor. Use Tab, Enter ou cole um intervalo do Excel. O saldo acompanha o pedido inteiro.",
+      "Comece na coluna Nova menor: a primeira quantidade cria a menor dentro da Caixa 40. Continue na mesma coluna para outros produtos. Use Tab, Enter ou cole do Excel.",
       [
-        499,
-        231,
-        650,
-        86
+        977,
+        166,
+        175,
+        151
       ]
     ],
     [
@@ -279,10 +279,10 @@ const scenes:Record<string,Array<[string,string,string,[number,number,number,num
       "Saldo e produtos pendentes",
       "Pedido é a quantidade prevista. Falta embalar desconta tudo já separado, inclusive menores sem destino. Zero indica distribuição completa desse produto.",
       [
-        265,
-        167,
-        234,
-        150
+        256,
+        166,
+        196,
+        151
       ]
     ],
     [

diff --git a/lib/manual-examples.ts b/lib/manual-examples.ts
@@ -52,9 +52,9 @@ export const manualExamples:Record<string,ManualExample> = {
     "caption": "Exemplo no sistema: programação, produção confirmada e embalagem aparecem separadas."
   },
   "boxes": {
-    "scenario": "Um produto do pedido tem 20 unidades. Você quer criar três menores com 5 unidades cada e depois reorganizar os volumes.",
+    "scenario": "Um produto do pedido tem 20 unidades. Você quer montar três menores com 5 unidades cada, diretamente dentro da Caixa 40.",
     "actions": [
-      "Em Mais ações (…) → Criar menores preenchidas, escolha o produto, 3 embalagens e 5 unidades por embalagem. Confira 15 unidades no total e clique em Criar preenchidas. A primeira Caixa 40 é criada junto.",
+      "Na linha do produto, digite 5 em Nova menor. A menor e a Caixa 40 são criadas juntas. Digite 5 na próxima coluna Nova menor e repita mais uma vez. As três menores já pertencem à mesma Caixa 40.",
       "As três colunas aparecem preenchidas com 5 unidades. Falta embalar mostra as 5 restantes do pedido. Corrija qualquer coluna digitando; Desfazer reverte a última edição.",
       "Para reorganizar, abra Mais ações (…) → Mover menores em lote, selecione duas colunas e escolha Nova Caixa 40. As duas menores levam suas 10 unidades; o saldo do pedido continua igual.",
       "Distribua as 5 unidades restantes, confira os demais produtos e conclua cada Caixa 40. Abra Pesos e detalhes, informe os valores reais e confirme a conferência física."
